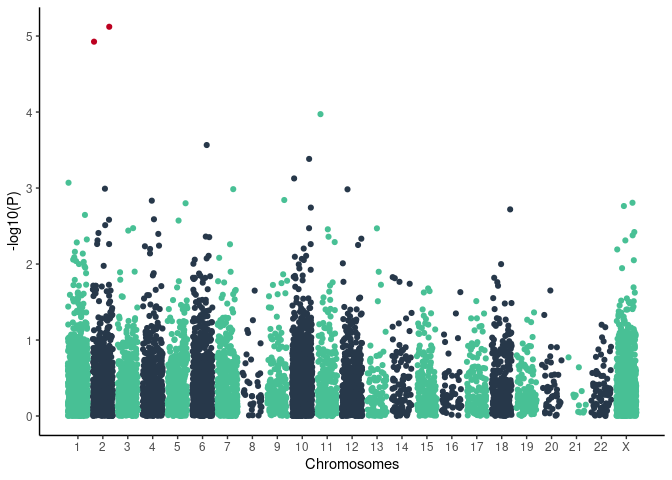
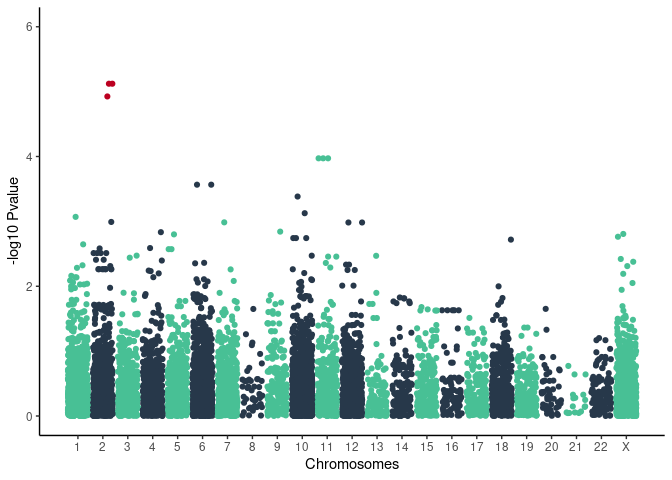
update

diff --git a/cardiac_panel/logistic_gwas.md b/cardiac_panel/logistic_gwas.md
@@ -4,11 +4,16 @@ ensembl\_cardiac\_diseases\_panel\_20200715
 Results on 1076 unrelated individuals 8129 variants with MAF &gt; 0.01
 and LD pruning (indep-pairwise 50 5 0.05)
 
-| SYMBOL | SNP                  | TEST | NMISS |     OR |     SE |    L95 |    U95 |   STAT |        P |         q |
-|:-------|:---------------------|:-----|------:|-------:|-------:|-------:|-------:|-------:|---------:|----------:|
-| HADHA  | chr2\_26242159\_G\_C | ADD  |   966 | 0.5781 | 0.1224 | 0.4548 | 0.7348 | -4.478 | 7.50e-06 | 0.0481812 |
-| HADHB  | chr2\_26258591\_G\_A | ADD  |   966 | 0.5869 | 0.1217 | 0.4623 | 0.7449 | -4.380 | 1.19e-05 | 0.0481812 |
+    ## Joining, by = "SNP"
 
-<https://onlinelibrary.wiley.com/doi/10.1002/jmd2.12165>
+    ## `geom_smooth()` using formula 'y ~ x'
+
+![](logistic_gwas_files/figure-gfm/loading_data-1.png)<!-- -->
 
 ![](logistic_gwas_files/figure-gfm/q_manhattan_plot-1.png)<!-- -->
+
+| SYMBOL | SNP                  |   Pvalue | FDR\_BH |
+|:-------|:---------------------|---------:|--------:|
+| HADHB  | chr2\_26242159\_G\_C | 7.50e-06 | 0.04818 |
+| HADHA  | chr2\_26242159\_G\_C | 7.50e-06 | 0.04818 |
+| HADHB  | chr2\_26258591\_G\_A | 1.19e-05 | 0.04818 |
